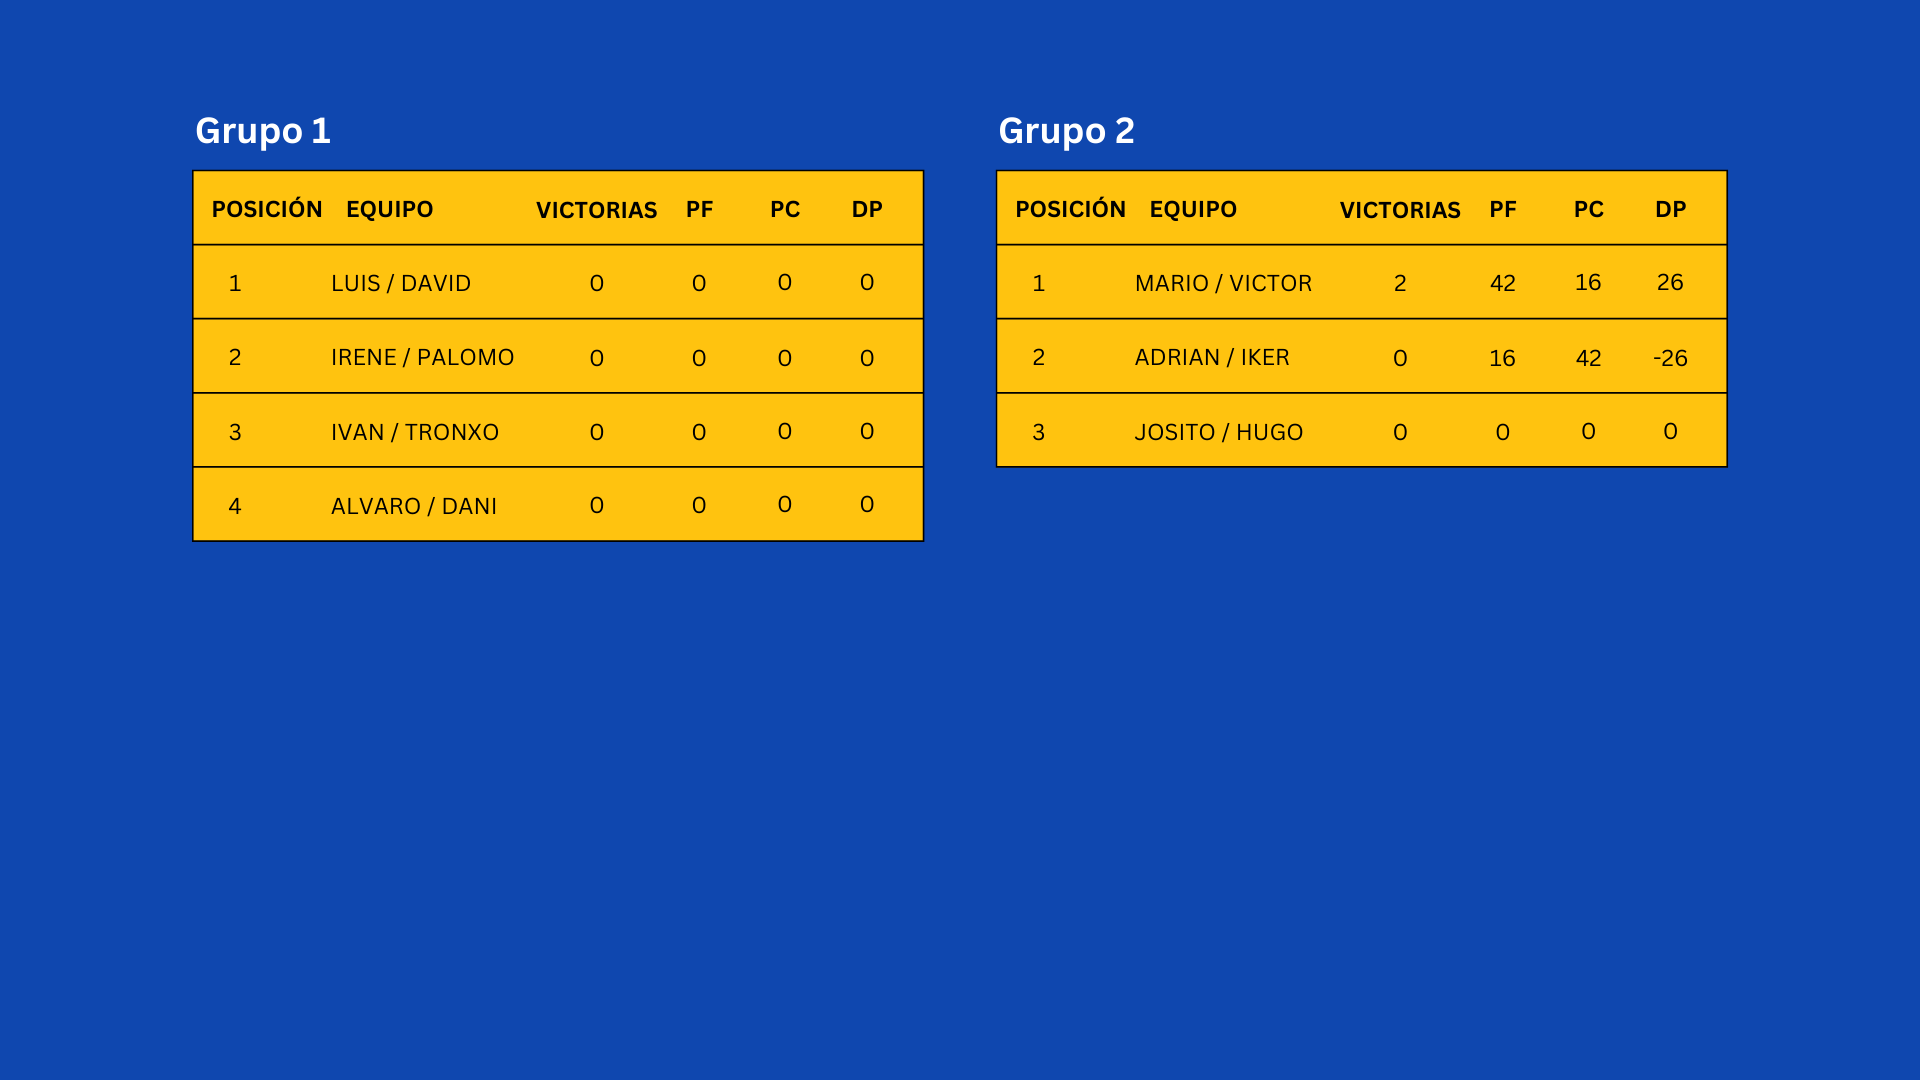
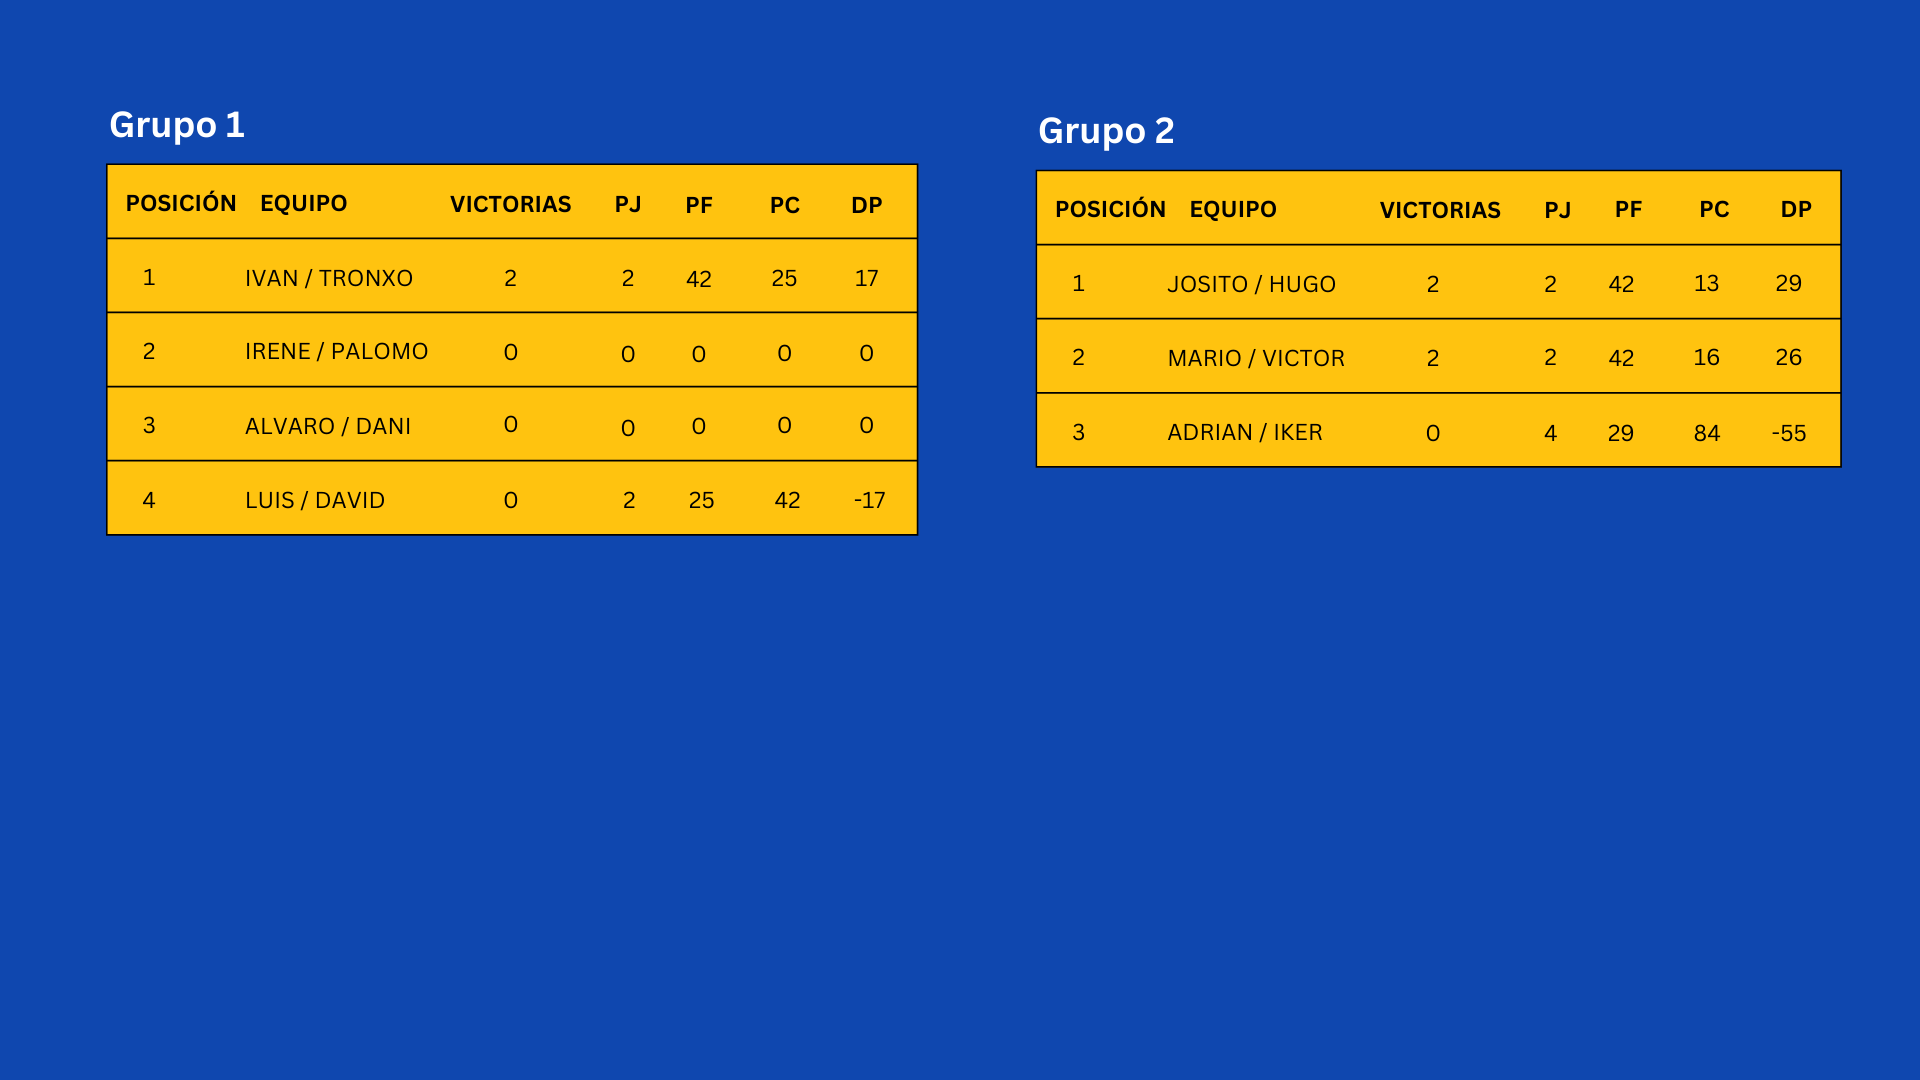
frontenis

diff --git a/padel.html b/padel.html
@@ -68,17 +68,15 @@
                 </div>
 
                 <div class="container">
+                    <p class="title-ap">Resultados</p>
+                    <p class="white">Ivan y Tronxo / Victor y Josito - 4-6 6-2 6-11</p>
+                    <p class="white">Miguel Angel y Javi / Nico Padre y Hugo - Ganadores Nico P y Hugo</p>
+                    <p class="white">Nico Padre y Hugo / Luis y David - 6-0 6-0</p>
+                    <p class="white">Victor y Josito / Adrian y Iker - 6-3 6-2</p>
+                </div>
+
+                <div class="container">
                     <p class="title-ap">Próximos partidos</p>
-
-                    <p class="white">Ivan y Tronxo / Victor y Josito - 3 de agosto a las 19:45</p>
-                    <p class="white">Miguel Angel y Javi / Nico Padre y Hugo - 3 de agosto a las 21:00</p>
-
-                    <hr class="hr-white"/>
-
-                    <p class="white">Nico Padre y Hugo / Luis y David - 4 de agosto a las 20:30</p>
-                    <p class="white">Victor y Josito / Adrian y Iker - 4 de agosto a las 21:00</p>
-
-                    <hr class="hr-white"/>
 
                     <p class="white">Mario y Raul / Ernesto y David - 7 de agosto a las 21:00</p>
 

diff --git a/frontenis.html b/frontenis.html
@@ -69,15 +69,13 @@
                 <div class="container">
                     <p class="title-ap">Resultados</p>
                     <p class="white">Mario y Victor / Adrian y Iker - 21-9 21-7</p>
+                    <p class="white">Luis y David / Ivan y Tronxo - 14-21 11-21</p>
+                    <p class="white">Adrian y Iker / Josito y Hugo - 6-21 7-21</p>
+
                 </div>
 
                 <div class="container">
                     <p class="title-ap">Próximos partidos</p>
-
-                    <p class="white">Luis y David / Ivan y Tronxo - 4 de agosto a las 18:00</p>
-                    <p class="white">Adrian y Iker / Josito y Hugo - 4 de agosto a las 19:30</p>
-
-                    <hr class="hr-white"/>
 
                     <p class="white">Luis y David / Alvaro y Dani - 9 de agosto a las 18:00</p>
                     <p class="white">Irene y Palomo / Ivan y Tronxo - 9 de agosto a las 19:30</p>
